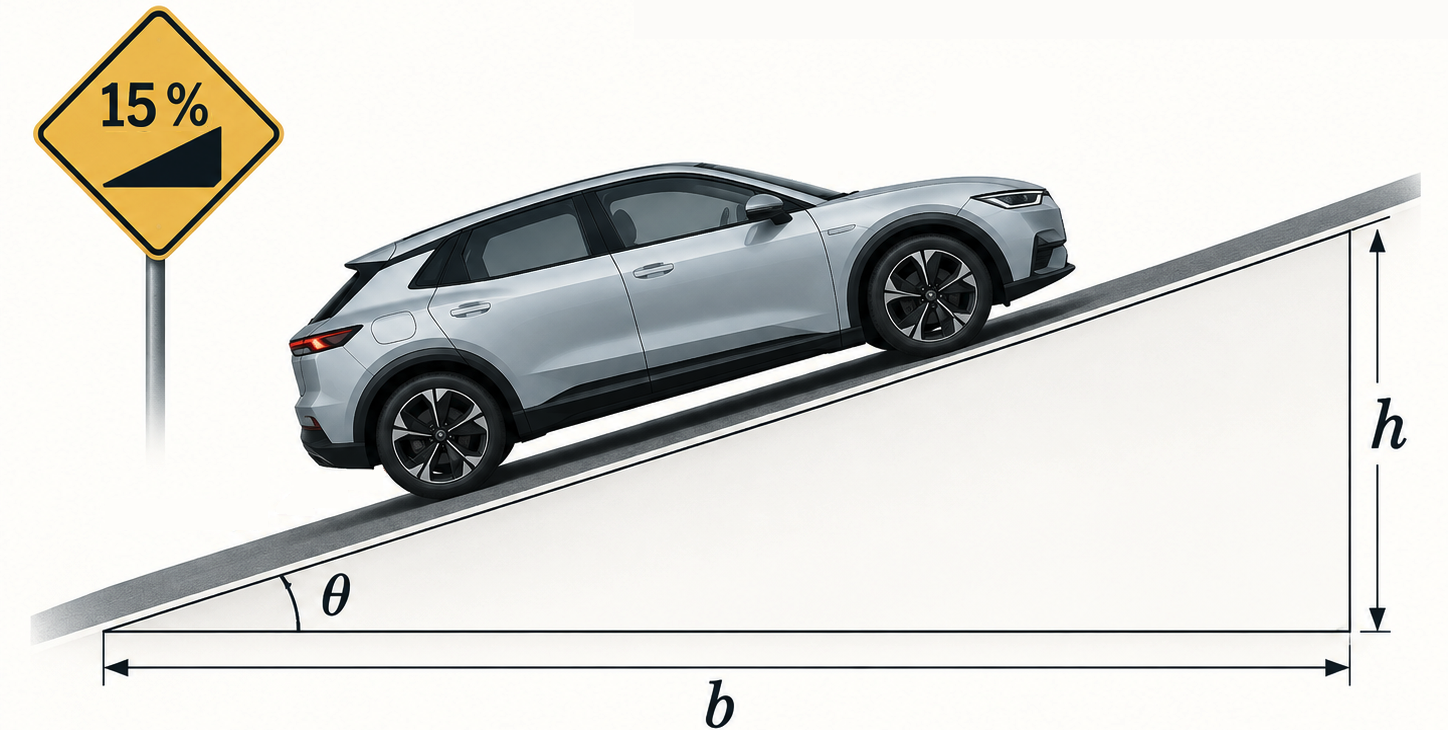
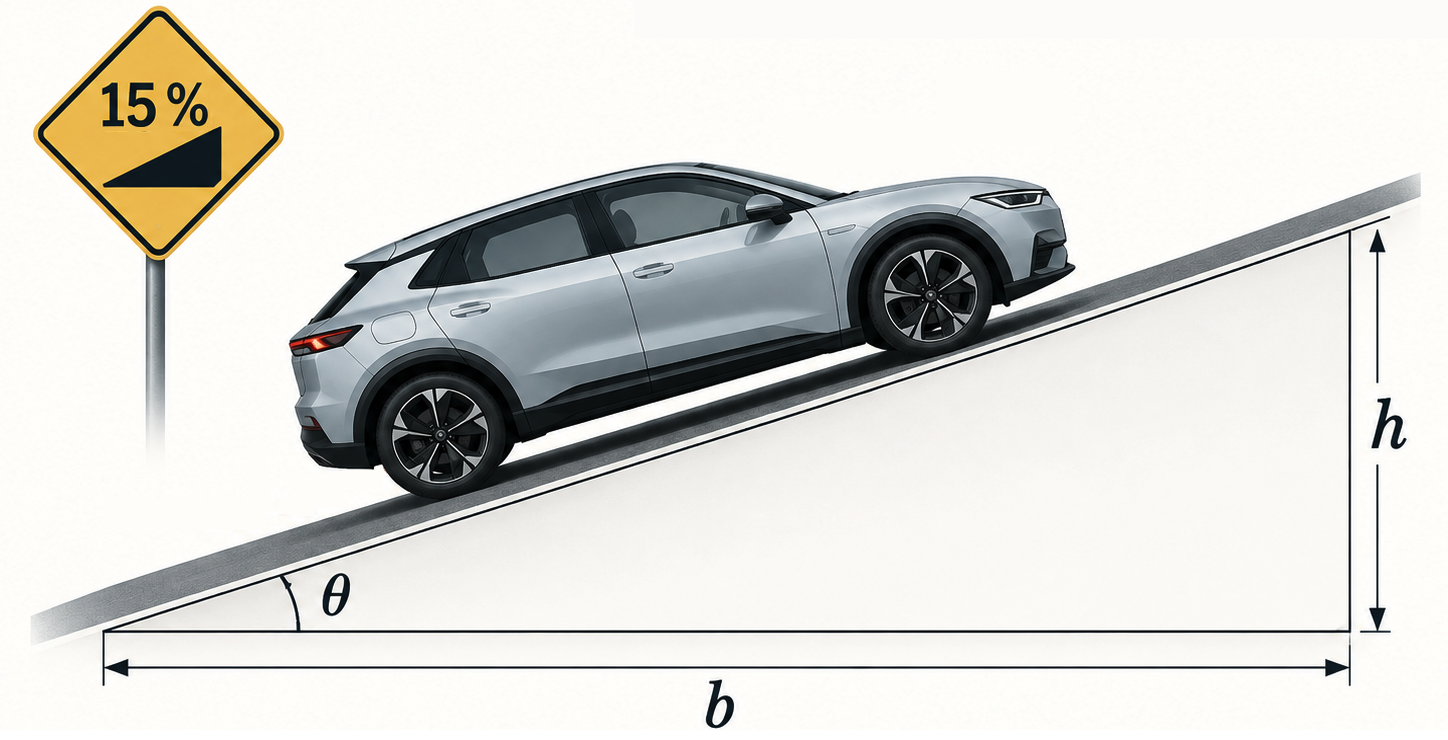
Build DR Automatica Astro site

diff --git a/drautomatica/articulos/pendientes/index.html b/drautomatica/articulos/pendientes/index.html
@@ -62,7 +62,7 @@ Software <i class="fa fa-caret-down"></i> </button> <div id="software-menu" clas
       <figure>
         <img src="/drautomatica/html/pendientes-porcentual.png" width="1165" height="668"
           alt="Esquema de un vehículo sobre una pendiente."
-          style="width: 100%; max-width: 720px; height: auto; display: block; margin: 0 auto;" />
+          style="width: 100%; max-width: 640px; height: auto; display: block; margin: 0 auto;" />
         <figcaption>Figura 1. Pendiente y pendiente porcentual.</figcaption>
       </figure>
 
